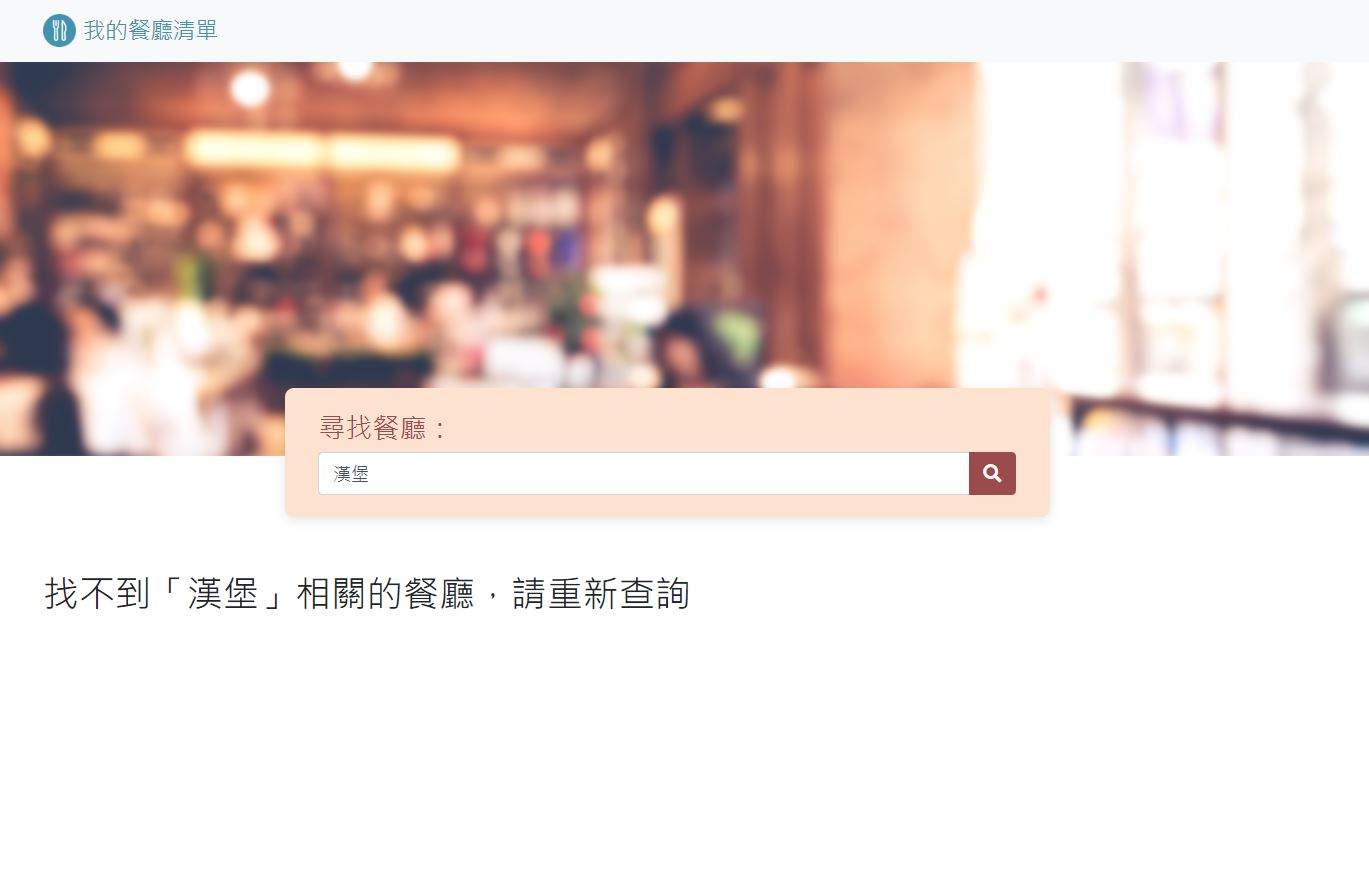
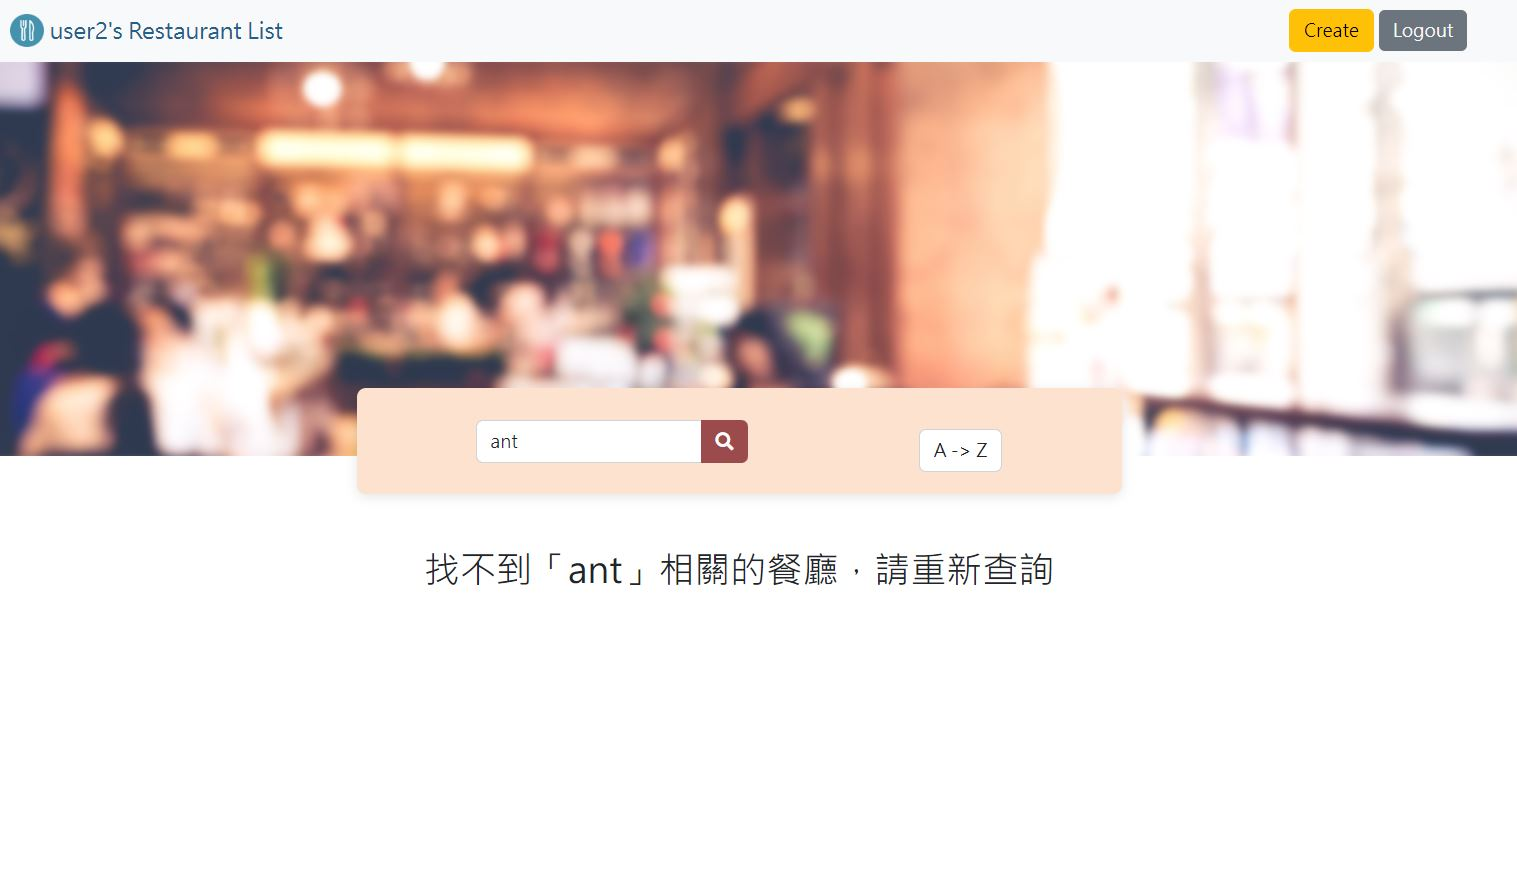
modify README

Changed region(s): [[0.0, 0.0, 1.0, 0.7122], [0.4909, 0.0619, 0.6136, 0.4644], [0.0307, 0.6502, 0.1841, 0.7122]]

diff --git a/routes/modules/home.js b/routes/modules/home.js
@@ -26,16 +26,17 @@ router.get('/search', (req, res) => {
   let notFound = false
 
   return Restaurantlist.find({
-    userId,
-    $or: [{ name: regKeyword }, { category: regKeyword }],
+    $and: [{ userId },
+    { $or: [{ name: regKeyword }, { category: regKeyword }] }
+    ]
   })
     .sort(sortby)
     .lean()
-    .then((restaurant) => {
+    .then(restaurant => {
       if (!restaurant || !restaurant.length) {
         notFound = true
       }
-      res.render('index', { restaurant, notFound, keyword, sortBool })
+      res.render('index', { restaurant, keyword, notFound, sortBool })
     })
     .catch(error => {
       console.log(error)

diff --git a/README.md b/README.md
@@ -3,10 +3,12 @@
 
 ## 介紹
 
-餐廳清單，可以瀏覽餐廳清單，包含餐廳評分、查看詳細資訊，詳細資訊包含餐廳簡介和圖片、可連結到地圖。
+使用者的餐廳清單，可以瀏覽餐廳清單，包含餐廳評分、查看詳細資訊，詳細資訊包含餐廳簡介和圖片、可連結到地圖。
 
 ### 功能
 
+- 使用者可註冊網站、也可使用Facebook登入
+- 使用者登入後才可使用網站功能，如下:
 - 查看所有餐廳、包含餐廳名稱、圖片、類型、評分數
 - 瀏覽餐廳的詳細資訊
 - 可點擊連結餐廳的地址到 Google 地圖
@@ -14,6 +16,10 @@
 - 可新增、修改、移除餐廳資訊
 
 ## 專案畫面
+
+#### 登入
+
+![首頁](https://github.com/OneZerocococo/restaurant_list/blob/main/public/image/login.PNG)
 
 #### 首頁
 
@@ -43,6 +49,10 @@
 4. 環境變數設置：
 
    ```bash
+   FACEBOOK_APP_ID=SKIP
+   FACEBOOK_APP_SECRET=SKIP
+   FACEBOOK_CALLBACK=http://localhost:3000/auth/facebook/callback
+   SESSION_SECRET=ThisIsMySecret
    mongoose.connect(process.env.MONGODB_URI)
    ```
 5. 寫入種子資料：
@@ -63,7 +73,20 @@
    Express is listening on localhost:3000
    ```
 
-8. 若欲暫停使用
+8. 可使用下列兩個種子帳號進行測試
+   
+   ```bash
+   email: user1@example.com
+   password: 12345678
+
+   ------------------------------
+
+   User2
+   email: user2@example.com
+   password: 12345678
+   ```
+
+9. 若欲暫停使用
 
    ```bash
    ctrl + c
@@ -77,6 +100,11 @@
 - Bootstrap 4.3.1
 - Font-awesome 5.8.1
 - mongoose 6.6.5
+- bcryptjs: 2.4.3
+- connect-flash: 0.1.1
+- dotenv: 16.0.3
+- express-session: 1.17.3
+- method-override: 3.0.0
 
 ## 開發者
 - [OneZero](https://github.com/OneZerocococo)
